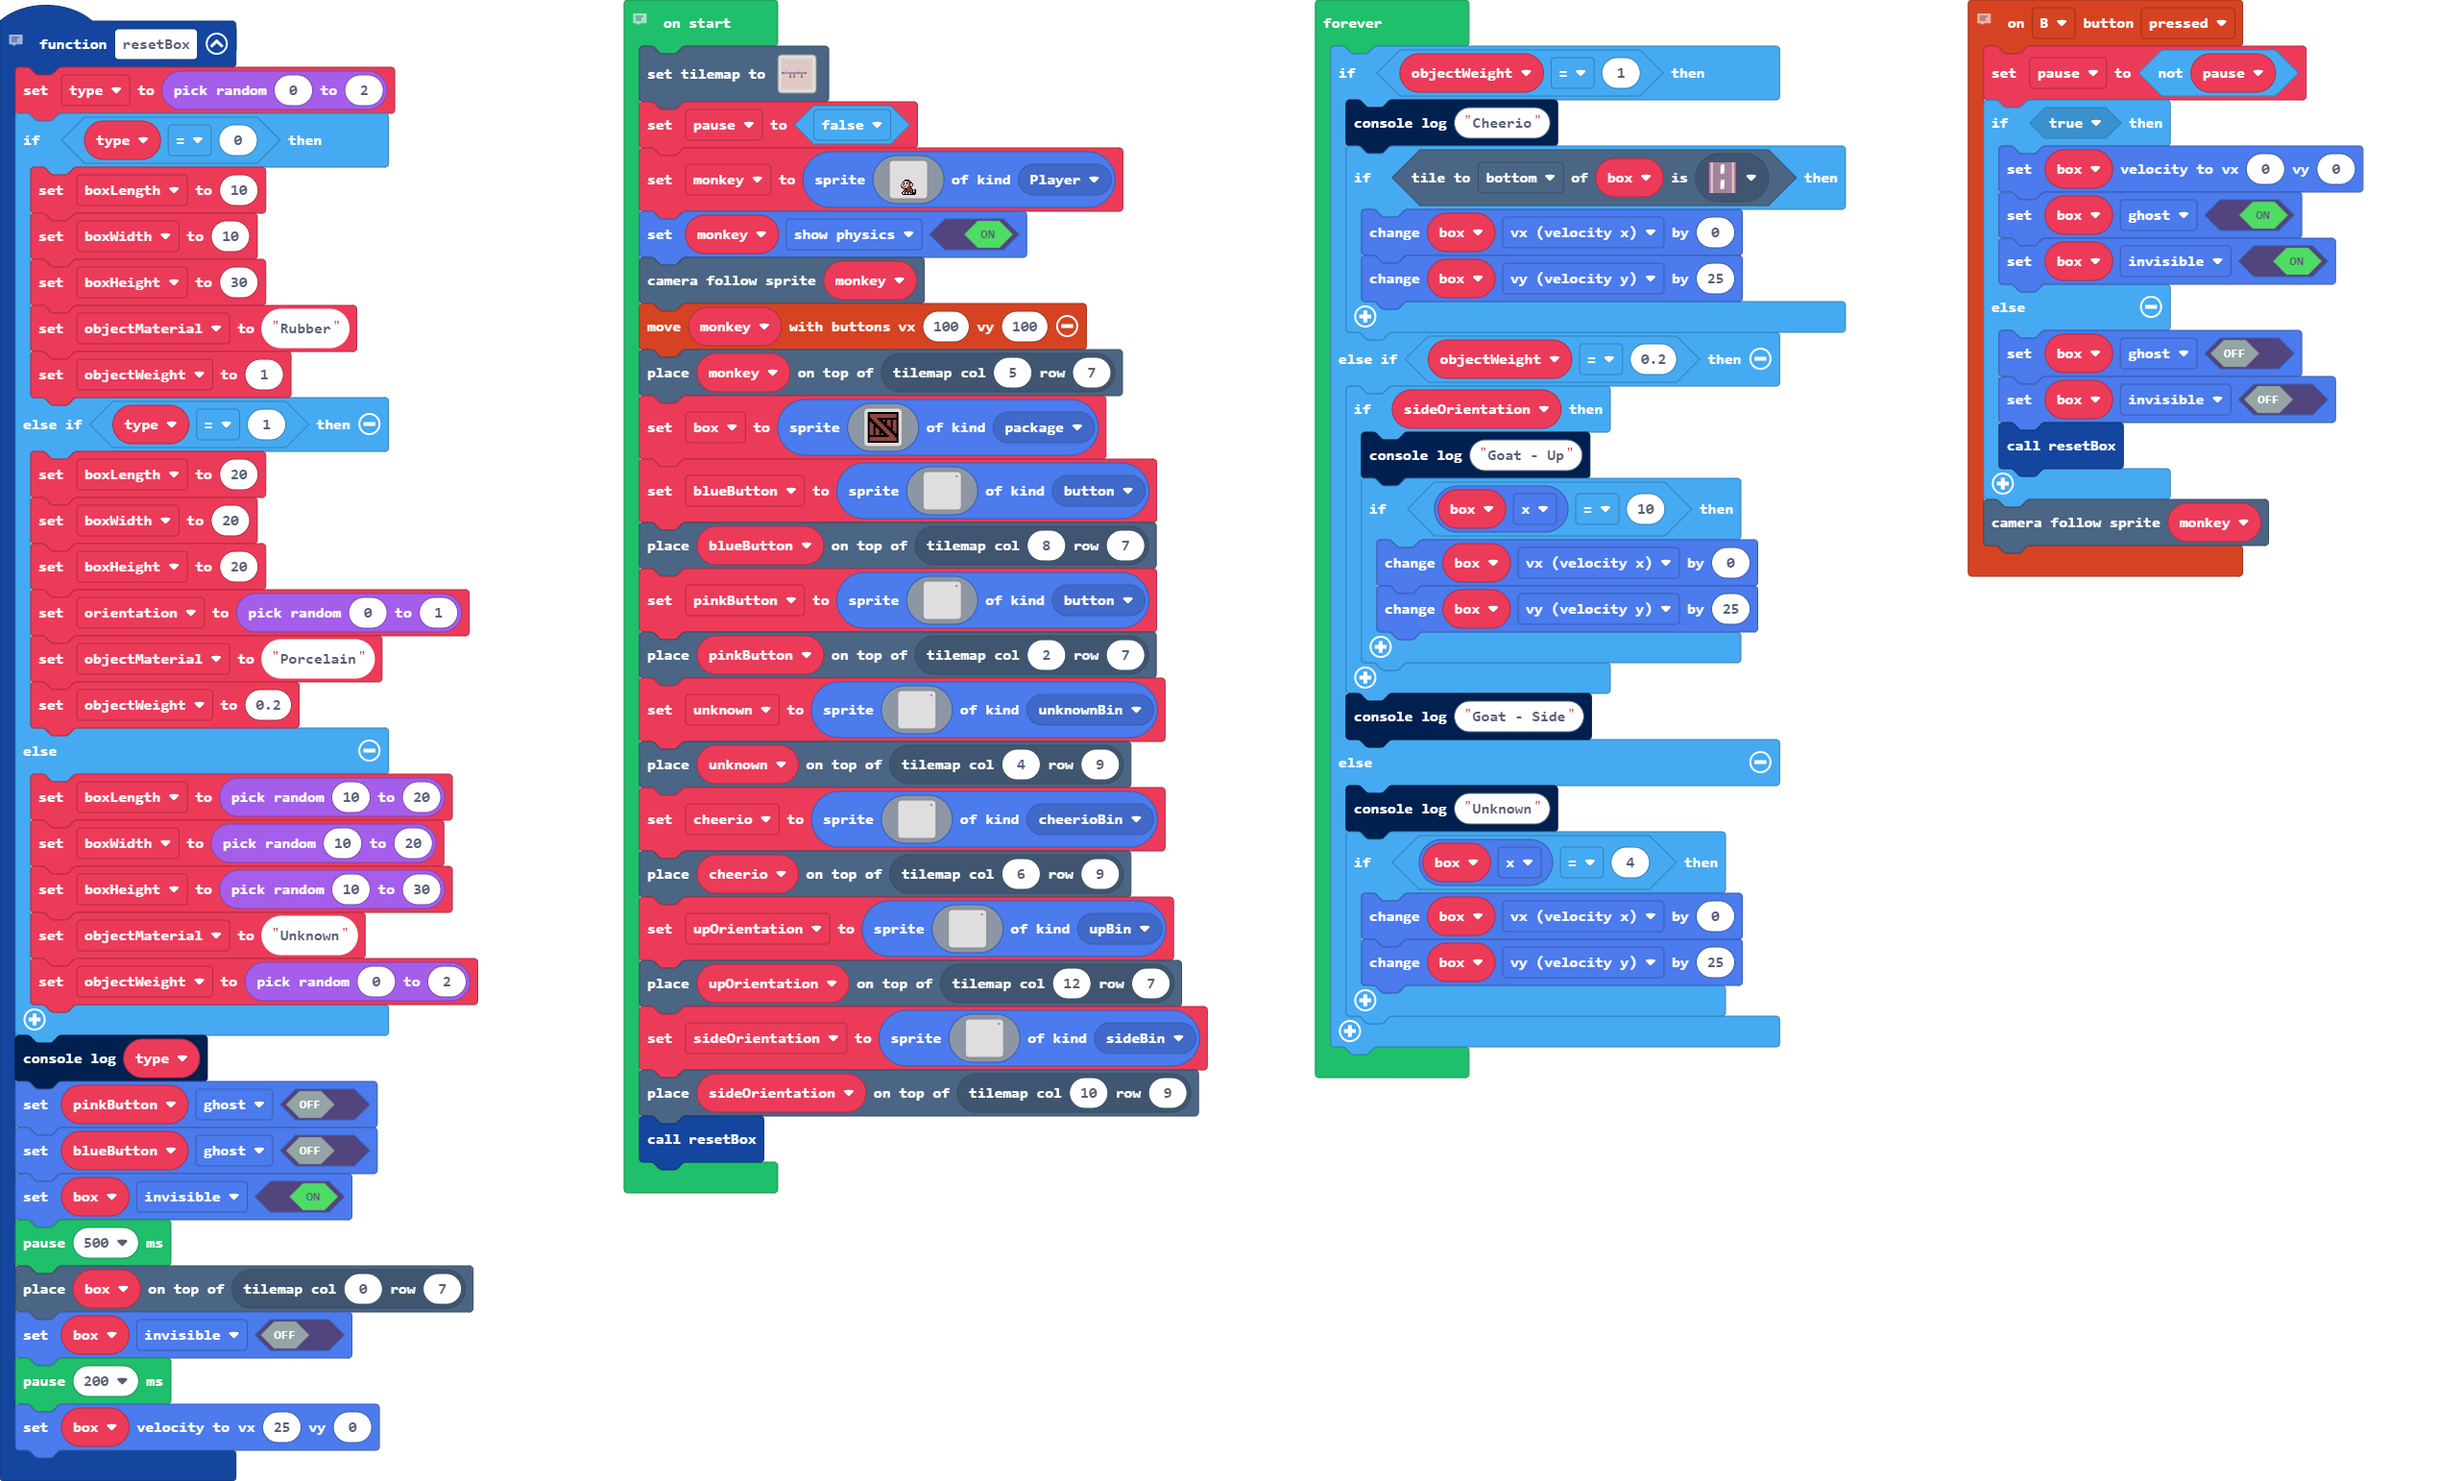
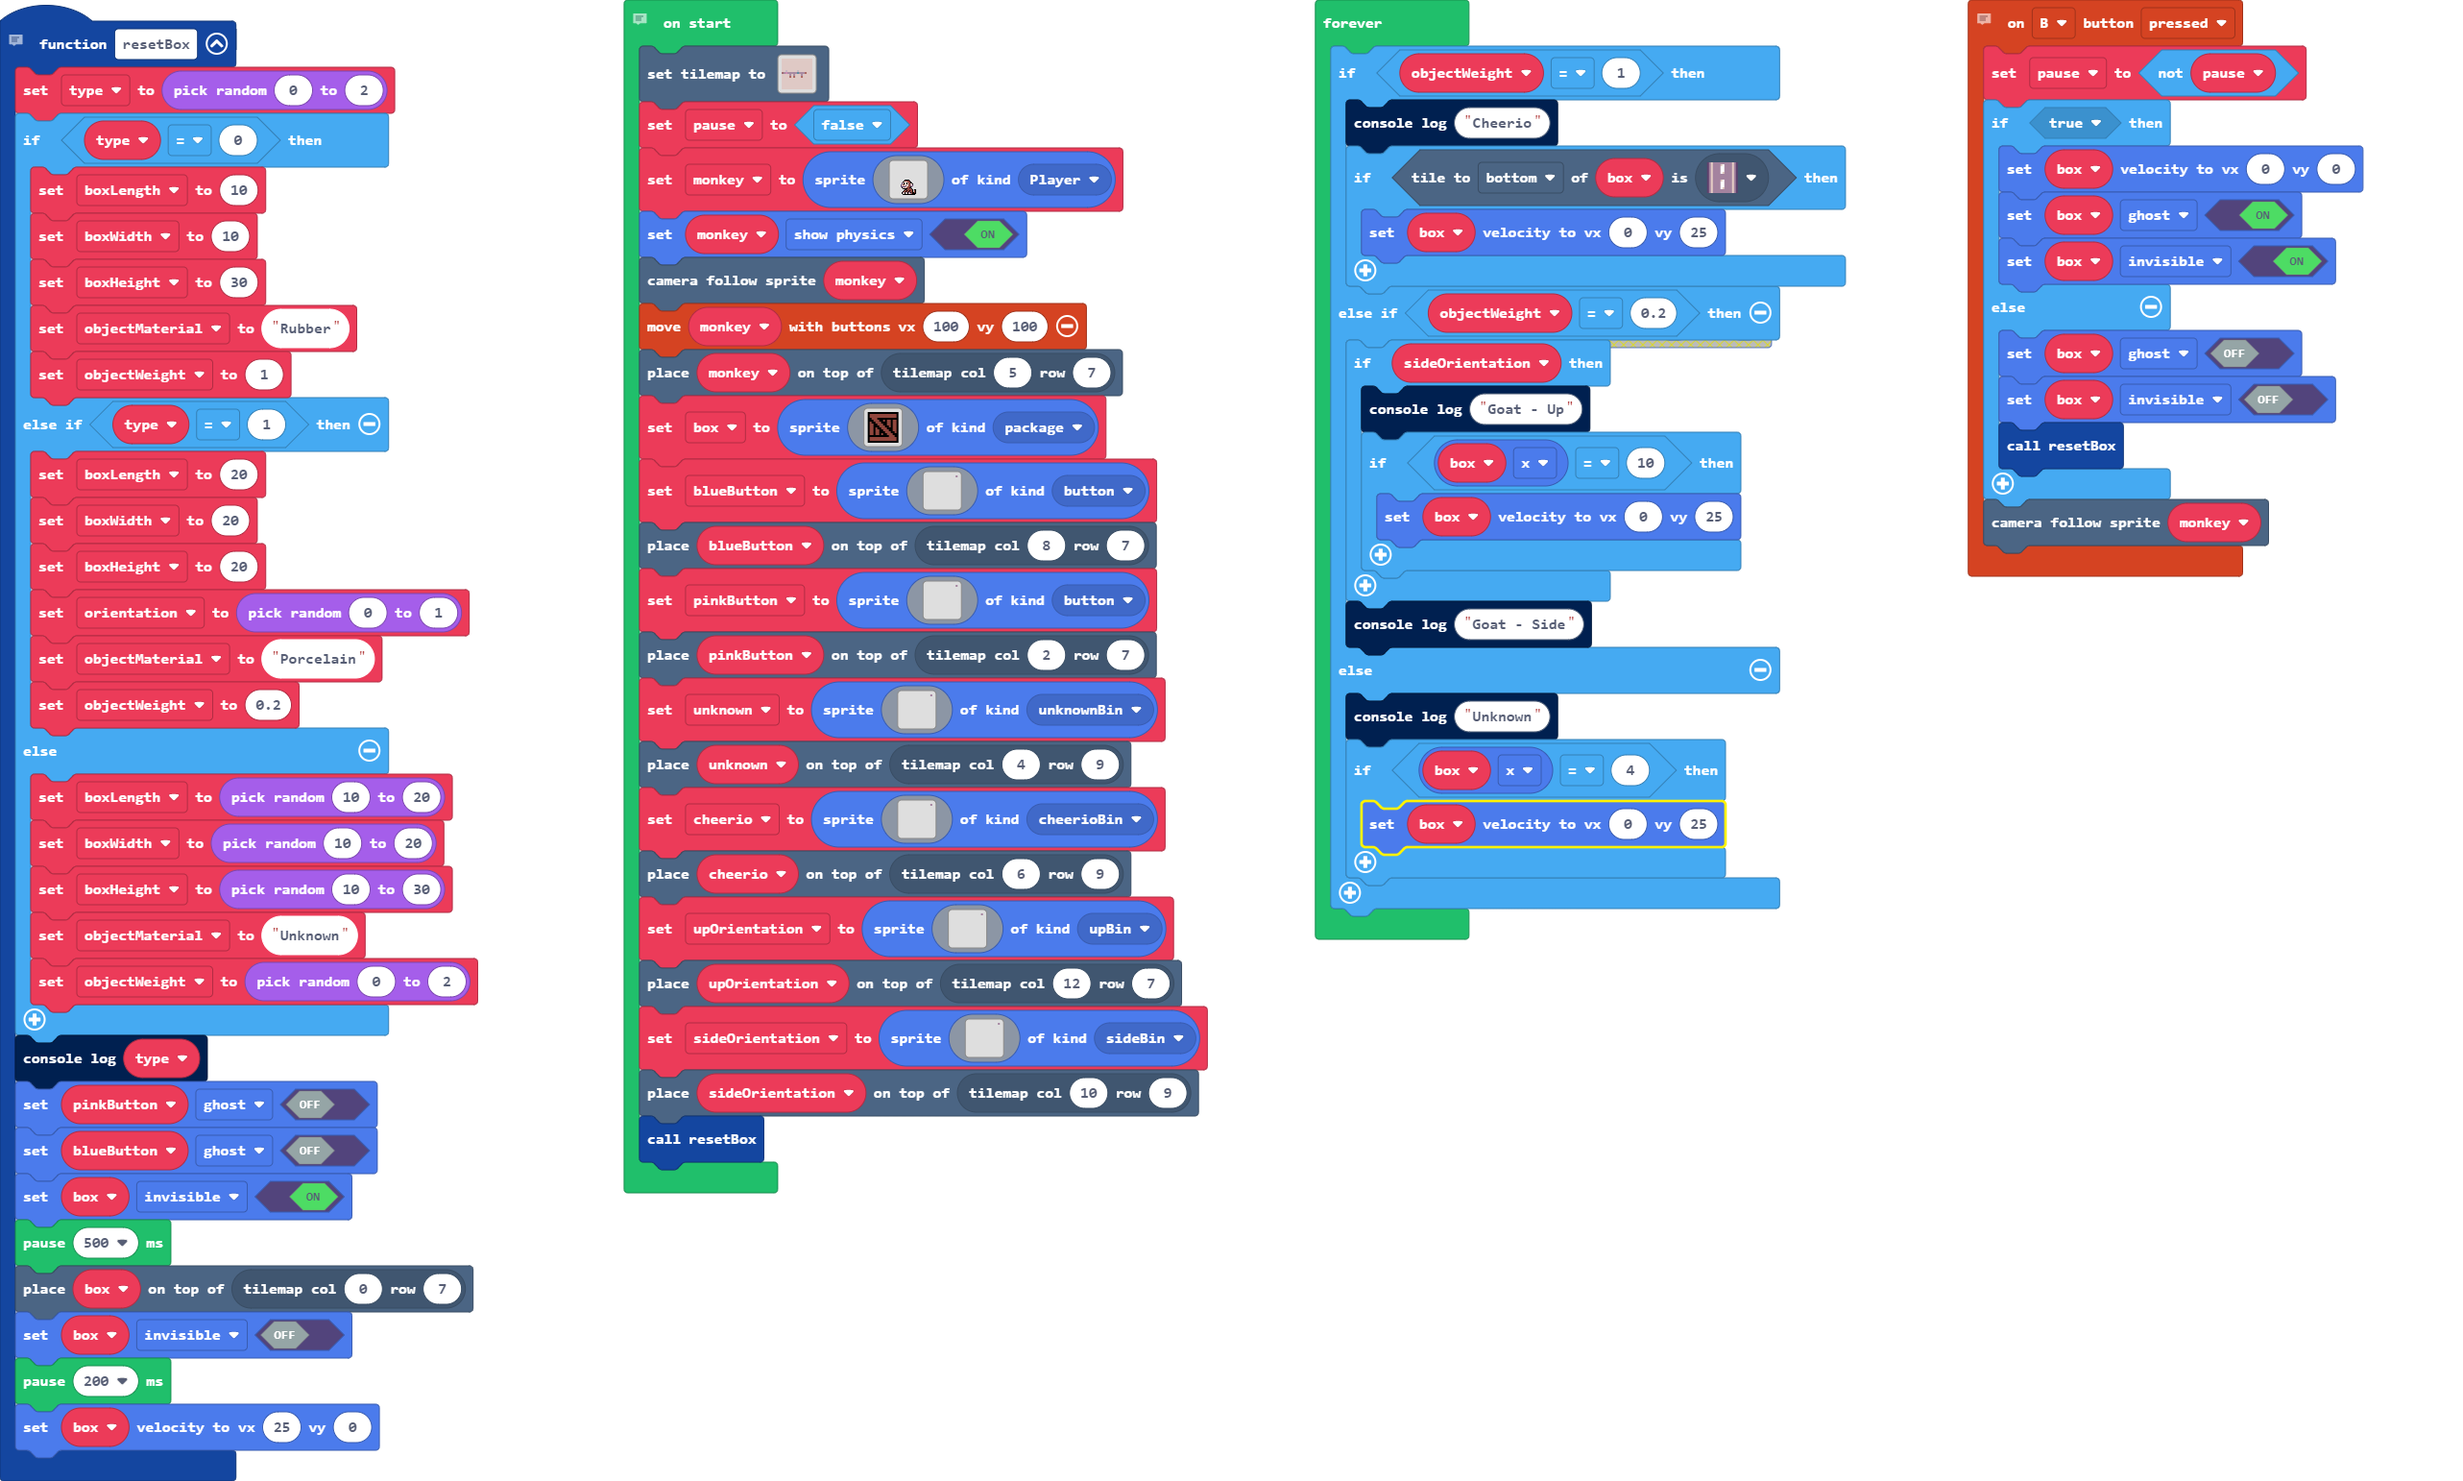
Update main.blocks, main.ts

Changed region(s): [[0.5302, 0.1245, 0.7485, 0.7471]]

diff --git a/main.ts b/main.ts
@@ -262,23 +262,20 @@ forever(function () {
     if (objectWeight == 1) {
         console.log("Cheerio")
         if (box.tileKindAt(TileDirection.Bottom, sprites.vehicle.roadVertical)) {
-            box.vx += 0
-            box.vy += 25
+            box.setVelocity(0, 25)
         }
     } else if (objectWeight == 0.2) {
         if (sideOrientation) {
             console.log("Goat - Up")
             if (box.x == 10) {
-                box.vx += 0
-                box.vy += 25
+                box.setVelocity(0, 25)
             }
         }
         console.log("Goat - Side")
     } else {
         console.log("Unknown")
         if (box.x == 4) {
-            box.vx += 0
-            box.vy += 25
+            box.setVelocity(0, 25)
         }
     }
 })
